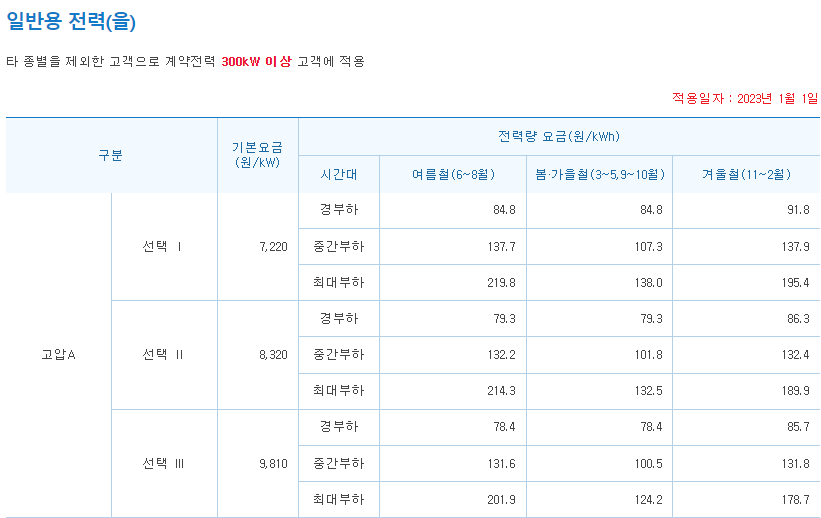
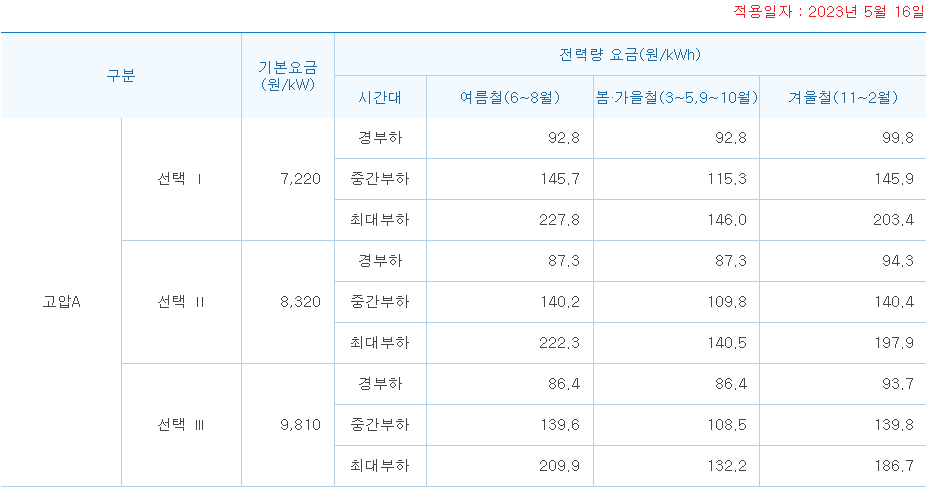
adding linprog results

diff --git a/linprogthree.html b/linprogthree.html
@@ -373,9 +373,9 @@
         
         <p>이전 포스팅에서 봤던 문제에서는 목적함수와 제약조건식들이 모두 선형이었다. 제곱항, 로그항 등은 없었다. 이 경우, 선형계획법 (Linear Programming) 을 이용해서 풀 수 있다.</p>
 
-<p>선형계획법을 `무료로’ 수행하기 위해서는, Python에서 cvxopt 패키지 설치 후 glpk 모듈을 쓸 수 있다 <a href="https://cvxopt.org/install/">(설치 방법 링크)</a>. 무료인 만큼 계산 시간이 많이 필요하지만, 그래도 적절한 가정들 하에 간소화된 에너지 최적화 문제들은 푸는 것 자체는 가능하다.</p>
+<p>선형계획법을 ‘무료로’ 수행하기 위해서는, Python에서 cvxopt 패키지 설치 후 glpk 모듈을 쓸 수 있다 <a href="https://cvxopt.org/install/">(설치 방법 링크)</a>. 무료인 만큼 계산 시간이 많이 필요하지만, 그래도 적절한 가정들 하에 간소화된 에너지 최적화 문제들은 푸는 것 자체는 가능하다.</p>
 
-<p>`유료로’ 수행하는 방법으로는 MATLAB optimization toolbox 사용, 또는 값비싼 상용 solver들 (CPLEX, Gurobi) 사용 등이 있다. 박사과정 때 MATLAB에 Gurobi academic license를 연계해서 써 봤는데, 정말 빠르긴 빨랐다. (다만 Gurobi commercial license의 permanent version 가격이 천만원 단위였던 것으로 기억하는데… 최근에는 cloud 접속 방식으로 필요한 만큼만 사용할 수 있는 서비스가 있다고 얼핏 듣기는 했다.)</p>
+<p>‘유료로’ 수행하는 방법으로는 MATLAB optimization toolbox 사용, 또는 값비싼 상용 solver들 (CPLEX, Gurobi) 사용 등이 있다. 박사과정 때 MATLAB에 Gurobi academic license를 연계해서 써 봤는데, 정말 빠르긴 빨랐다. (다만 Gurobi commercial license의 permanent version 가격이 천만원 단위였던 것으로 기억하는데… 최근에는 cloud 접속 방식으로 필요한 만큼만 사용할 수 있는 서비스가 있다고 얼핏 듣기는 했다.)</p>
 
 <p><br />
 이 포스팅에서는 Python cvxopt 패키지의 glpk 모듈로 선형계획법 문제를 코딩해 푸는 과정을 설명한다.</p>
@@ -537,9 +537,9 @@
 <p><br />
 마지막으로, 목적함수를 코딩한다. 목적함수에서 각 변수들에 붙는 계수들을 모은 벡터 $\texttt{c}$를 만든다.</p>
 
-<div class="language-python highlighter-rouge"><div class="highlight"><pre class="highlight"><code><span class="n">eleccost_offpeak</span> <span class="o">=</span> <span class="mf">79.3</span><span class="o">*</span><span class="mf">1.137</span> <span class="c1"># 경부하 시간의 전력요금 (1.137을 곱해 부가가치세, 전력산업기반기금 고려)
-</span><span class="n">eleccost_mid</span> <span class="o">=</span> <span class="mf">132.2</span><span class="o">*</span><span class="mf">1.137</span> <span class="c1"># 중간부하 시간의 전력요금
-</span><span class="n">eleccost_peak</span> <span class="o">=</span> <span class="mf">214.3</span><span class="o">*</span><span class="mf">1.137</span> <span class="c1"># 최대부하 시간의 전력요금
+<div class="language-python highlighter-rouge"><div class="highlight"><pre class="highlight"><code><span class="n">eleccost_offpeak</span> <span class="o">=</span> <span class="mf">87.3</span><span class="o">*</span><span class="mf">1.137</span> <span class="c1"># 경부하 시간의 전력요금 (1.137을 곱해 부가가치세, 전력산업기반기금 고려)
+</span><span class="n">eleccost_mid</span> <span class="o">=</span> <span class="mf">140.2</span><span class="o">*</span><span class="mf">1.137</span> <span class="c1"># 중간부하 시간의 전력요금
+</span><span class="n">eleccost_peak</span> <span class="o">=</span> <span class="mf">222.3</span><span class="o">*</span><span class="mf">1.137</span> <span class="c1"># 최대부하 시간의 전력요금
 </span><span class="n">eleccost</span> <span class="o">=</span> <span class="n">np</span><span class="p">.</span><span class="nf">hstack</span><span class="p">([</span><span class="n">eleccost_offpeak</span><span class="o">*</span><span class="n">np</span><span class="p">.</span><span class="nf">ones</span><span class="p">((</span><span class="mi">1</span><span class="p">,</span><span class="mi">8</span><span class="p">)),</span>
                       <span class="n">eleccost_mid</span><span class="o">*</span><span class="n">np</span><span class="p">.</span><span class="nf">ones</span><span class="p">((</span><span class="mi">1</span><span class="p">,</span><span class="mi">3</span><span class="p">)),</span>
                       <span class="n">eleccost_peak</span><span class="o">*</span><span class="n">np</span><span class="p">.</span><span class="nf">ones</span><span class="p">((</span><span class="mi">1</span><span class="p">,</span><span class="mi">1</span><span class="p">)),</span>
@@ -562,9 +562,19 @@
 </span><span class="n">p_discharge</span> <span class="o">=</span> <span class="n">np</span><span class="p">.</span><span class="nf">array</span><span class="p">(</span><span class="n">x</span><span class="p">[</span><span class="mi">1</span><span class="p">][</span><span class="mi">48</span><span class="p">:</span><span class="mi">72</span><span class="p">])</span> <span class="c1"># 시간별 배터리 방전을 통해 부하에 전달되는 전기 (방전에 따른 손실 발생 후)
 </span><span class="n">e_batt</span> <span class="o">=</span> <span class="n">np</span><span class="p">.</span><span class="nf">array</span><span class="p">(</span><span class="n">x</span><span class="p">[</span><span class="mi">1</span><span class="p">][</span><span class="mi">72</span><span class="p">:])</span> <span class="c1"># 시간별 배터리 내 저장된 에너지 (t=0 포함함)
 </span></code></pre></div></div>
+<p><br />
+배터리의 충전/방전 스케줄이 어떤지, 그리고 배터리 내 에너지가 어떻게 변화하는지 그래프로 보자</p>
 
-<p>배터리의 충전/방전 스케줄이 어떤지, 그리고 배터리 내 에너지가 어떻게 변화하는지 그래프로 보자
-(계산 결과를 그래프와 같이 보여주기)</p>
+<p><img src="/assets/images/linprogthree/result_24hour.png" alt="result_24hour" class="align-center" />
+<em>24시간 동안의 시스템 operation plot.</em></p>
+
+<p>경부하 시간대인 5~6시, 6~7시, 7~8시에 수전 (power from grid) 이 부하 (power load) 보다 크며 배터리 내 에너지 (energy from battery) 가 증가한다. 즉 요금이 저렴한 시간에 배터리가 충전된다.</p>
+
+<p>그리고 중간부하 시간대인 8~9시, 9~10시, 10~11시에는 충전도 방전도 되지 않다가, 요금이 가장 비싼 최대부하 시간대인 11~12시에 배터리가 방전되어 수전을 감소시킨다.</p>
+
+<p>그리고 중간부하 시간대인 12~13시에 다시 충전된 후, 다시 최대부하 시간대인 13~14시, 14~15시에 완전히 방전된다. 12~13시에는 경부하가 아닌 중간부하 시간대임에도 불구하고, 바로 뒤에 최대부하 시간대가 오기 때문에 배터리가 충전되었다.</p>
+
+<p>즉 선형계획법으로 구한 충/방전 스케줄은, 예상했던 대로 시간대별 전기요금 차이에 따른 ‘차익거래’를 추구하는 스케줄이다.</p>
 
 <div class="notice--info">
 

diff --git a/linprogfour.html b/linprogfour.html
@@ -465,7 +465,7 @@ $\vdots$
 
 <p>이렇게 큰 scale의 문제를 다루는 경우 두 가지 이슈가 생긴다.</p>
 
-<p>첫 번째 이슈는, 계산 시간이 매우 길어진다는 것이다. 필자의 경험 상, 변수가 수십만 개가 되면 Python cvxopt의 경우 계산시간이 수십 분 이상으로 늘어날 수 있고 MATLAB optimization toolbox 등을 써도 분 단위는 걸린다. Input 변수들의 값을 바꿔보면서 계산을 여러 번 돌리는 parametric study를 하고자 할 경우 이는 중요한 이슈일 수 있다. 그래도 계산 시간 이슈는 해결책이 있다고 치자 (비싼 워크스테이션을 쓰든, 상용 solver의 cloud 서비스를 쓰든, 내가 자는 동안에도 컴퓨터를 돌리든…).</p>
+<p>첫 번째 이슈는, 계산 시간이 매우 길어진다는 것이다. 필자의 경험 상, 변수가 수십만 개가 되면 Python cvxopt의 경우 계산시간이 수십 분 이상으로 늘어날 수 있고 MATLAB optimization toolbox 등을 써도 분 단위는 걸린다. Input 변수들의 값을 바꿔보면서 계산을 여러 번 돌리는 parametric study를 하고자 할 경우 이는 중요한 이슈다. 그래도 계산 시간 이슈는 해결책이 있다고 치자 (비싼 워크스테이션을 쓰든, 상용 solver의 cloud 서비스를 쓰든, 내가 자는 동안에도 컴퓨터를 돌리든…).</p>
 
 <p>두 번째 이슈는, 20년이라는 긴 기간 동안의 `시간별’ 전기부하 데이터와 태양광 발전량 데이터를 구하기 쉽지 않다는 것이다. 기상청 시간별 일사량 및 건물의 스마트미터 계측 모두, 아직은 그만큼 역사가 오래되지 않았기 때문이다. 심지어 일부 기상대에서는 아직도 시간별 일사량 자체를 제공하지 않기도 한다. 이런 경우 없는 데이터를 만들어낸다는 해결책은 마땅치 않은 경우가 대부분이다.</p>
 
@@ -481,6 +481,8 @@ $\vdots$
 
 <p>$e_{\text{batt}}[0] = e_{\text{batt}}[8760]$
 이는 1년치 자료만을 사용하는 최적화 문제가 `같은 1년의 반복을 가정’함에 착안해, 해당 1년의 시작 직전 시간의 배터리 내 에너지 저장량과 끝 시간의 배터리 내 에너지 저장량을 같게 만드는 것이다. 2년차에서 0번째 시간은 1년차의 8760번째 시간과 같기 때문이다.</p>
+
+<p>더 현실적으로는 ‘태양광 설치가 가능한 면적 제약’, 즉 어떤 상수 $A$에 대해 $s_{\text{pv}} \leq A$도 고려할 수 있다. 지붕 등 설치 가능 면적이 크지 않다면 이는 중요한 제약이다. 또한 <a href="https://cyber.kepco.co.kr/ckepco/front/jsp/CY/H/B/CYHBHP00101.jsp">태양광 잉여분을 역송할 경우의 상계거래</a> 등도 제약조건으로 둘 수 있다. 다만 이 포스팅의 예제는 선형계획 계산 자체를 설명하는 것이 목적이므로, 이러한 심화적 조건들은 적용하지 않는다.</p>
 
 <p><br />
 지금까지의 내용을 반영해, 1년치 자료를 입력으로 받아서 태양광과 배터리 용량을 결정하는 최적화 문제를 구성하고 풀어내는 Python 코드는 아래와 같다.</p>
@@ -580,7 +582,9 @@ $\vdots$
 <span class="n">plt</span><span class="p">.</span><span class="nf">grid</span><span class="p">(</span><span class="bp">True</span><span class="p">)</span>
 </code></pre></div></div>
 
-<p>위 코드의 초반부에서 시간별 전기 부하, 시간별 태양광 발전량, 시간별 전기 요금을 텍스트 파일로부터 불러왔다. 코드 내에 1년 (8,760시간) 내 각 시간별로 대응하는 수치들을 다 써 줄 수 없기 때문이다. 이 때 주의할 점은, <a href="https://cyber.kepco.co.kr/ckepco/front/jsp/CY/D/C/CYDCHP00403.jsp">공휴일의 최대수요전력 및 사용전력량은 경부하시간대로 계량하고, 공휴일이 아닌 토요일 최대부하시간대의 사용전력량은 중간부하시간대로 계량한다</a>는 것이다. $\texttt{eleccost_hourly.txt}$에 해당 사항이 반영되어 있는지 확인해야 한다. 그렇지 않으면 전기요금 및 전기요금 절감액이 과다계상된다.</p>
+<p>위 코드의 초반부에서 시간별 전기 부하, 시간별 태양광 발전량, 시간별 전기 요금을 텍스트 파일로부터 불러왔다. 코드 내에 1년 (8,760시간) 내 각 시간별로 대응하는 수치들을 다 써 줄 수 없기 때문이다.</p>
+
+<p>이 때 주의할 점은, <a href="https://cyber.kepco.co.kr/ckepco/front/jsp/CY/D/C/CYDCHP00403.jsp">공휴일의 최대수요전력 및 사용전력량은 경부하시간대로 계량하고, 공휴일이 아닌 토요일 최대부하시간대의 사용전력량은 중간부하시간대로 계량한다</a>는 것이다. $\texttt{eleccost_hourly.txt}$에 해당 사항이 반영되어 있는지 확인해야 한다. 그렇지 않으면 전기요금 및 전기요금 절감액이 과다계상된다.</p>
 
 <p>(계산 결과)</p>
 

diff --git a/assets/js/lunr/lunr-store.js b/assets/js/lunr/lunr-store.js
@@ -66,7 +66,7 @@ var store = [{
         "teaser": null
       },{
         "title": "정수선형계획법 기반 분산에너지시스템 최적화 설명 - 3) 배터리의 충/방전 스케줄 정하기: Python 코드",
-        "excerpt":"이전 포스팅에서 봤던 문제에서는 목적함수와 제약조건식들이 모두 선형이었다. 제곱항, 로그항 등은 없었다. 이 경우, 선형계획법 (Linear Programming) 을 이용해서 풀 수 있다. 선형계획법을 `무료로’ 수행하기 위해서는, Python에서 cvxopt 패키지 설치 후 glpk 모듈을 쓸 수 있다 (설치 방법 링크). 무료인 만큼 계산 시간이 많이 필요하지만, 그래도 적절한 가정들 하에 간소화된...","categories": ["Energy"],
+        "excerpt":"이전 포스팅에서 봤던 문제에서는 목적함수와 제약조건식들이 모두 선형이었다. 제곱항, 로그항 등은 없었다. 이 경우, 선형계획법 (Linear Programming) 을 이용해서 풀 수 있다. 선형계획법을 ‘무료로’ 수행하기 위해서는, Python에서 cvxopt 패키지 설치 후 glpk 모듈을 쓸 수 있다 (설치 방법 링크). 무료인 만큼 계산 시간이 많이 필요하지만, 그래도 적절한 가정들 하에 간소화된...","categories": ["Energy"],
         "tags": ["선형계획법","부하패턴","경제성분석","Python"],
         "url": "/linprogthree.html",
         "teaser": null

diff --git a/scrapper.html b/scrapper.html
@@ -104,6 +104,29 @@
 </head>
 
 
+<script type="text/x-mathjax-config">
+    MathJax.Hub.Config({
+        TeX: {
+          equationNumbers: {
+            autoNumber: "AMS"
+          }
+        },
+        tex2jax: {
+        inlineMath: [ ['$', '$'] ],
+        displayMath: [ ['$$', '$$'] ],
+        processEscapes: true,
+      }
+    });
+    MathJax.Hub.Register.MessageHook("Math Processing Error",function (message) {
+          alert("Math Processing Error: "+message[1]);
+        });
+    MathJax.Hub.Register.MessageHook("TeX Jax - parse error",function (message) {
+          alert("Math Processing Error: "+message[1]);
+        });
+    </script>
+<script type="text/javascript" async src="https://cdn.mathjax.org/mathjax/latest/MathJax.js?config=TeX-MML-AM_CHTML">
+</script>
+
 
 <!-- end custom head snippets -->
 </head>
